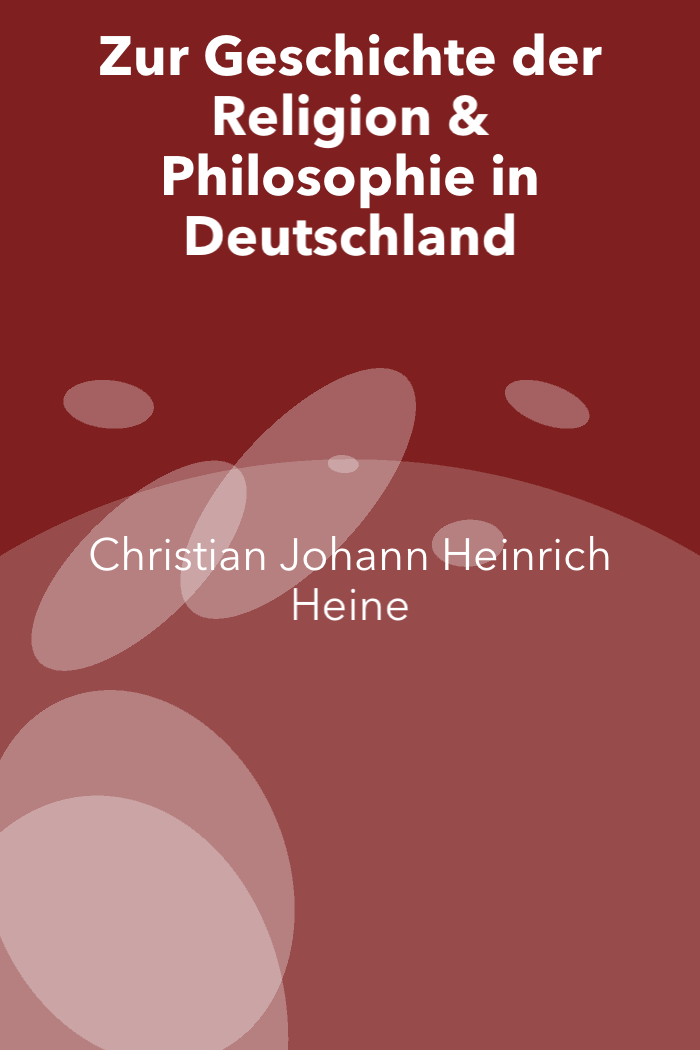
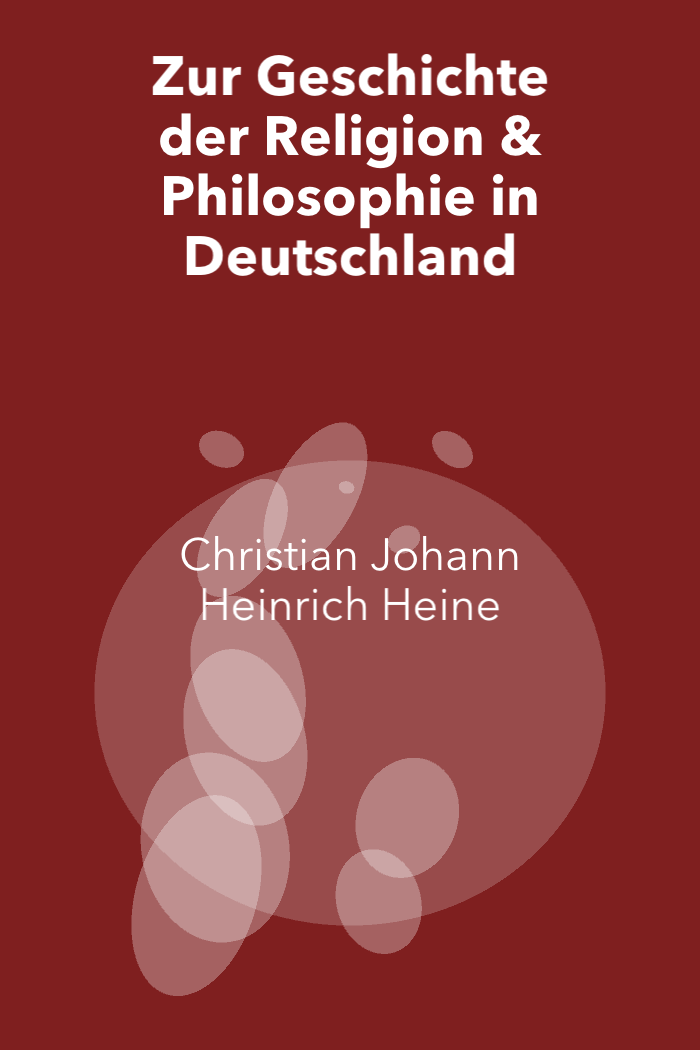
:space_invader: more samples

diff --git a/README.md b/README.md
@@ -5,6 +5,8 @@
 <img src="https://github.com/mgiraldo/feedbooks-covers/raw/master/output3.png" width="200">
 <img src="https://github.com/mgiraldo/feedbooks-covers/raw/master/output2.png" width="200">
 <img src="https://github.com/mgiraldo/feedbooks-covers/raw/master/output4.png" width="200">
+<img src="https://github.com/mgiraldo/feedbooks-covers/raw/master/output5.png" width="200">
+<img src="https://github.com/mgiraldo/feedbooks-covers/raw/master/output6.png" width="200">
 
 A generative book cover based on some feedbooks.com public domain data
 
